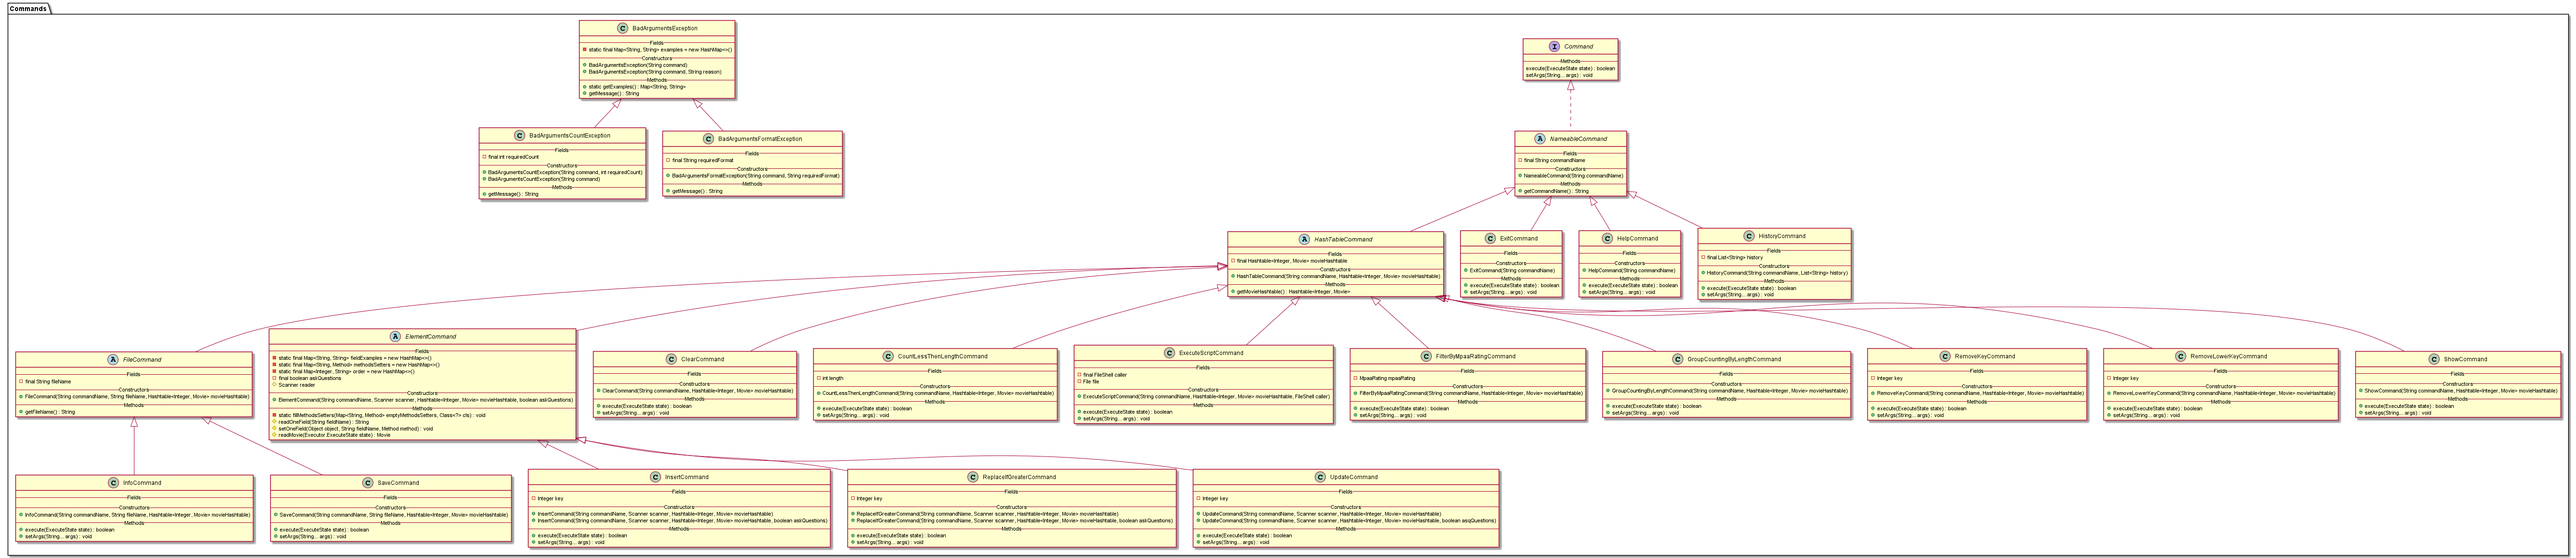
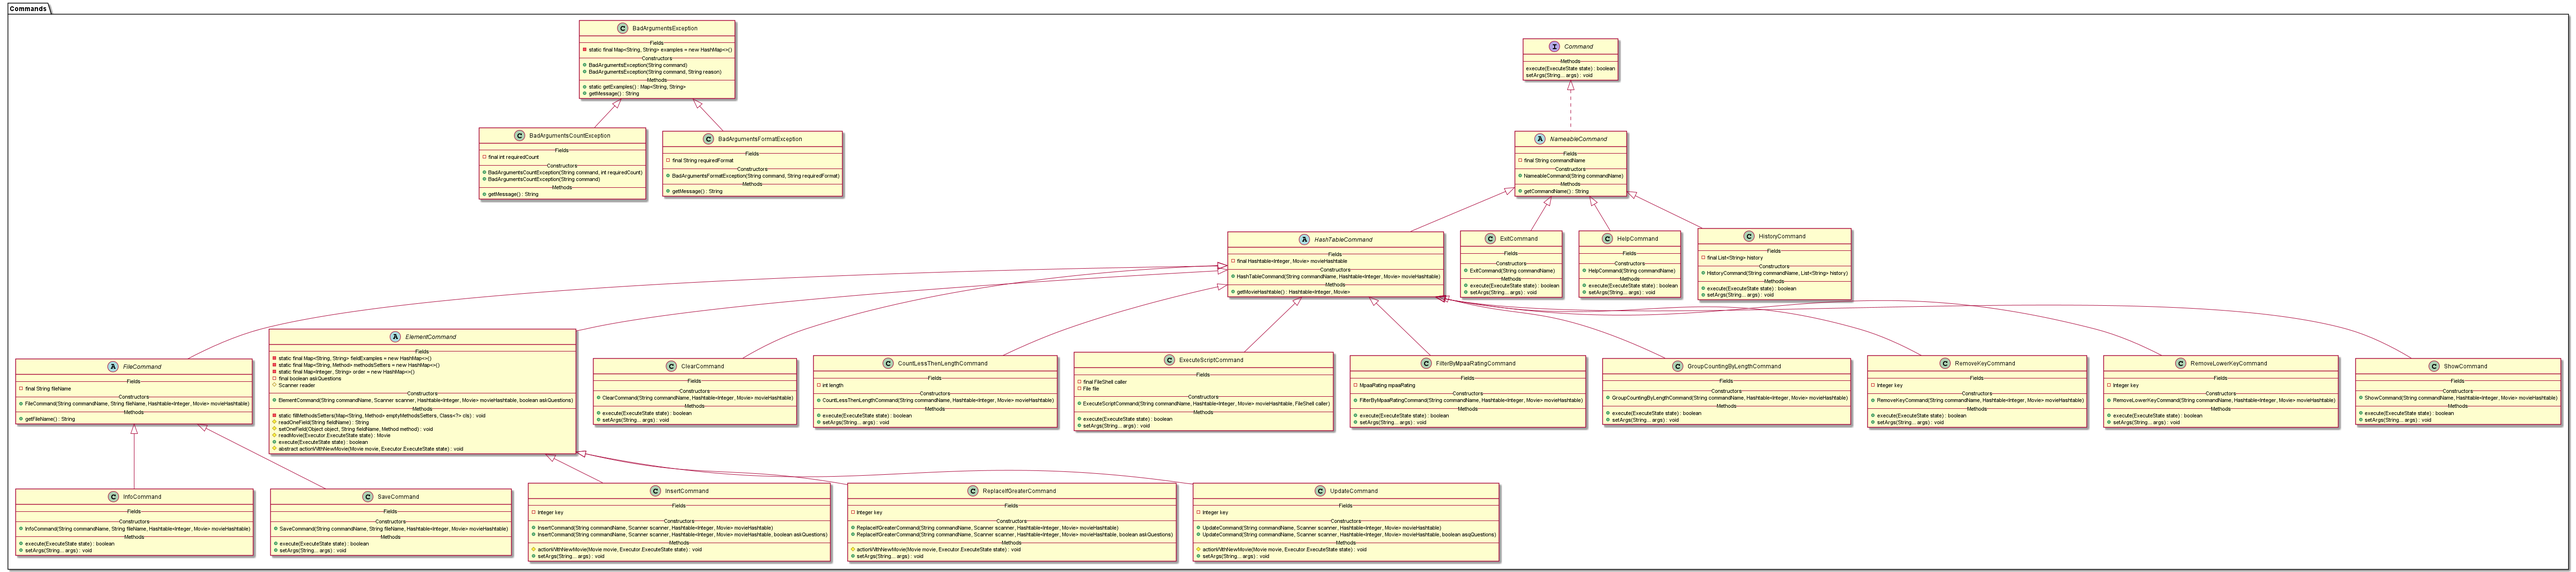
Fix, when user prints EOF everywhere

diff --git a/src/main/java/Commands/ElementCommand.java b/src/main/java/Commands/ElementCommand.java
@@ -86,7 +86,7 @@ public abstract class ElementCommand extends HashTableCommand {
      * @param fieldName name of field we read
      * @return string - user input or null
      */
-    protected String readOneField(String fieldName) {
+    protected String readOneField(String fieldName) throws NoSuchElementException {
         if (askQuestions) {
             System.out.print("Enter " + fieldName + " (" + fieldExamples.get(fieldName) + "): ");
         }
@@ -100,7 +100,7 @@ public abstract class ElementCommand extends HashTableCommand {
      * @param fieldName name of field we set
      * @param method setter we invoke
      */
-    protected void setOneField(Object object, String fieldName, Method method) {
+    protected void setOneField(Object object, String fieldName, Method method) throws NoSuchElementException {
         while (true) {
             try {
                 method.invoke(object, readOneField(fieldName));
@@ -109,8 +109,6 @@ public abstract class ElementCommand extends HashTableCommand {
                 System.out.println(e.getCause().getMessage());
             } catch (IllegalAccessException e) {
                 e.printStackTrace();
-            } catch (NoSuchElementException e) {
-                throw new RuntimeException("the input ended before the element was read", e);
             }
         }
     }
@@ -120,7 +118,7 @@ public abstract class ElementCommand extends HashTableCommand {
      * @param state are we validating of executing
      * @return reader Movie element
      */
-    protected Movie readMovie(Executor.ExecuteState state) {
+    protected Movie readMovie(Executor.ExecuteState state) throws NoSuchElementException {
         if (state == Executor.ExecuteState.EXECUTE) {
             System.out.println("*reading Movie object starts*");
         }
@@ -147,4 +145,35 @@ public abstract class ElementCommand extends HashTableCommand {
         }
         return newMovie;
     }
+
+    /**
+     * Contains main logic of all element commands: read Movie, act with new Movie
+     * @param state tells method "to validate" or "to execute"
+     * @see Command
+     */
+    @Override
+    public boolean execute(Executor.ExecuteState state) {
+        try {
+            Movie newMovie = readMovie(state);
+            actionWithNewMovie(newMovie, state);
+            return true;
+        } catch (NoSuchElementException e) {
+            if (state == Executor.ExecuteState.EXECUTE) {
+                System.out.println("\u001B[31m" + "ERROR: command \"" + getCommandName() + "\" interrupted - incorrect field value" + "\u001B[0m");
+                reader = new Scanner(System.in);
+                return false;
+            } else if (state == Executor.ExecuteState.VALIDATE) {
+                throw new NoSuchElementException("file ended before command \"" + getCommandName() + "\" completed");
+            } else {
+                throw new IllegalArgumentException("another ExecuteState????");
+            }
+        }
+    }
+
+    /**
+     * Method, which does some actions with the recently read element
+     * @param movie read element
+     * @param state tells method "to validate" or "to execute"
+     */
+    protected abstract void actionWithNewMovie(Movie movie, Executor.ExecuteState state);
 }

diff --git a/src/main/java/Commands/UpdateCommand.java b/src/main/java/Commands/UpdateCommand.java
@@ -26,18 +26,14 @@ public class UpdateCommand extends ElementCommand {
     }
 
     /**
-     * @param state tells method "to validate" or "to execute"
-     * @see ReadersExecutors.Executor.ExecuteState
-     * @see Command
+     * @see ElementCommand
      */
     @Override
-    public boolean execute(Executor.ExecuteState state) {
-        Movie newMovie = readMovie(state);
-        getMovieHashtable().put(key, newMovie);
+    protected void actionWithNewMovie(Movie movie, Executor.ExecuteState state) {
+        getMovieHashtable().put(key, movie);
         if (state == Executor.ExecuteState.EXECUTE) {
             System.out.println("The movie has been updated");
         }
-        return true;
     }
 
     /**
@@ -51,7 +47,7 @@ public class UpdateCommand extends ElementCommand {
         }
         try {
             Integer key = Integer.parseInt(args[0]);
-            if (!getMovieHashtable().keySet().contains(key)) {
+            if (!getMovieHashtable().containsKey(key)) {
                 throw new BadArgumentsException(getCommandName(), "movie with key \"" + key + "\" doesn't exists");
             }
             this.key = key;

diff --git a/src/main/java/Commands/ReplaceIfGreaterCommand.java b/src/main/java/Commands/ReplaceIfGreaterCommand.java
@@ -26,15 +26,12 @@ public class ReplaceIfGreaterCommand extends ElementCommand {
     }
 
     /**
-     * @param state tells method "to validate" or "to execute"
-     * @see ReadersExecutors.Executor.ExecuteState
-     * @see Command
+     * @see ElementCommand
      */
     @Override
-    public boolean execute(Executor.ExecuteState state) {
-        Movie newMovie = readMovie(state);
-        if (newMovie.compareTo(getMovieHashtable().get(key)) > 0) {
-            getMovieHashtable().put(key, newMovie);
+    protected void actionWithNewMovie(Movie movie, Executor.ExecuteState state) {
+        if (movie.compareTo(getMovieHashtable().get(key)) > 0) {
+            getMovieHashtable().put(key, movie);
             if (state == Executor.ExecuteState.EXECUTE) {
                 System.out.println("Element greater than the old one has been inserted");
             }
@@ -43,7 +40,6 @@ public class ReplaceIfGreaterCommand extends ElementCommand {
                 System.out.println("Nothing was happened");
             }
         }
-        return true;
     }
 
     /**

diff --git a/src/main/java/Commands/InsertCommand.java b/src/main/java/Commands/InsertCommand.java
@@ -3,7 +3,9 @@ package Commands;
 import MovieObjects.Movie;
 import ReadersExecutors.Executor;
 
+import javax.xml.bind.ValidationEvent;
 import java.util.Hashtable;
+import java.util.NoSuchElementException;
 import java.util.Scanner;
 
 /**
@@ -26,15 +28,11 @@ public class InsertCommand extends ElementCommand {
     }
 
     /**
-     * @param state tells method "to validate" or "to execute"
-     * @see ReadersExecutors.Executor.ExecuteState
-     * @see Command
+     * @see ElementCommand
      */
     @Override
-    public boolean execute(Executor.ExecuteState state) {
-        Movie newMovie = readMovie(state);
-        getMovieHashtable().put(key, newMovie);
-        return true;
+    protected void actionWithNewMovie(Movie movie, Executor.ExecuteState state) {
+        getMovieHashtable().put(key, movie);
     }
 
     /**

diff --git a/src/main/java/ReadersExecutors/CMDShell.java b/src/main/java/ReadersExecutors/CMDShell.java
@@ -73,15 +73,10 @@ public class CMDShell extends Shell {
                 } catch (CommandException e) {
                     System.out.println(e.getMessage());
                 }
-            } catch (RuntimeException e) {
-                if (e.getCause() instanceof NoSuchElementException) {
-                    System.out.println("\u001B[31m" + "ERROR: incorrect input" + "\u001B[0m");
-                    System.exit(1);
-                } else {
-                    throw e;
-                }
+            } catch (NoSuchElementException e) {
+                System.out.println(e.getMessage());
+                break;
             }
-
         }
     }
 }

diff --git a/src/main/java/ReadersExecutors/Executor.java b/src/main/java/ReadersExecutors/Executor.java
@@ -78,10 +78,8 @@ public class Executor {
                 if (!command.execute(state)) {
                     throw new CommandException(commandName, "can't be executed");
                 }
-            } catch (RuntimeException e) {
-                if (e.getCause() instanceof NoSuchElementException) {
-                    throw new CommandException(commandName, e.getMessage());
-                }
+            } catch (NoSuchElementException e) {
+                throw new CommandException(commandName, e.getMessage());
             }
         } else {
             throw new RuntimeException("ExecutionState \"" + state + "\" doesn't exist");

diff --git a/src/main/java/ReadersExecutors/Shell.java b/src/main/java/ReadersExecutors/Shell.java
@@ -60,11 +60,11 @@ public abstract class Shell {
      * Method, which read new command from reader
      * @return read command
      */
-    protected String readCommand() {
+    protected String readCommand() throws NoSuchElementException {
         try {
             return reader.nextLine();
         } catch (NoSuchElementException e) {
-            throw new RuntimeException("\u001B[31m" + "ERROR: incorrect input" + "\u001B[0m", e);
+            throw new NoSuchElementException("\u001B[31m" + "ERROR: incorrect input (input ended)" + "\u001B[0m");
         }
     }
 
